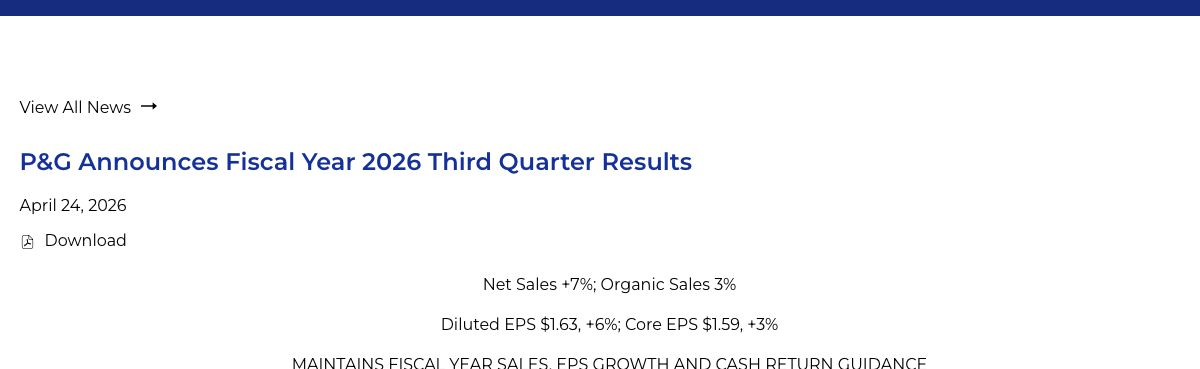
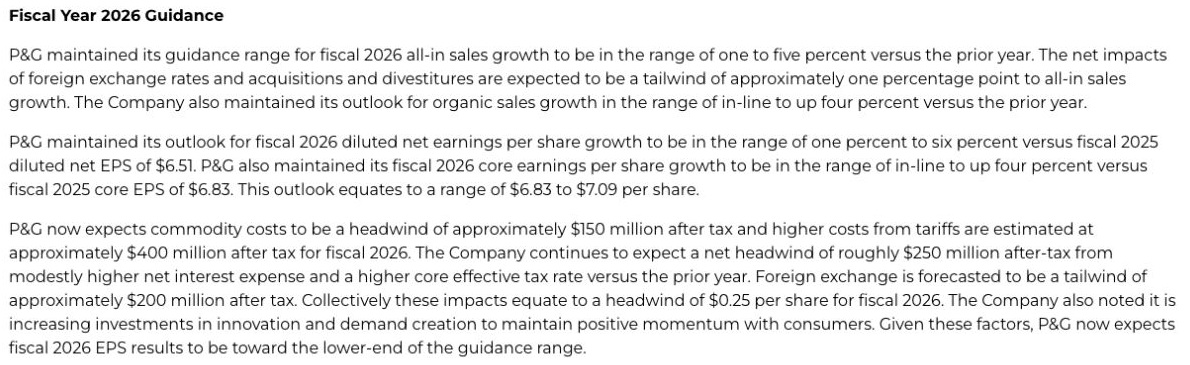
Correct guidance screenshot and explain annual-to-quarter forecast scope

diff --git a/analysis/01_management_guidance.md b/analysis/01_management_guidance.md
@@ -4,7 +4,9 @@
 
 ## 🎯 Goal
 
-Create a clear company benchmark for our April–June forecast.
+Forecast **April–June 2026 as one quarter**, then combine it with the first nine months to show the full-year result.
+
+We use quarterly public financial data. We do not split the forecast into months without evidence for that monthly pattern.
 
 **Data:** [P&G's 24 April earnings release](https://www.pginvestor.com/news/news-details/2026/PG-Announces-Fiscal-Year-2026-Third-Quarter-Results/default.aspx) → [our Excel guidance table](../outputs/april_guidance_sample/PG_1_Management_Guidance.xlsx).
 
@@ -28,12 +30,32 @@ Create a clear company benchmark for our April–June forecast.
 
 All-in sales includes currency and portfolio effects; organic sales removes specified currency and acquisition/divestiture effects. Core EPS is an adjusted measure, so it must be compared with core EPS rather than GAAP EPS.
 
+## 📅 From annual guidance to a quarterly sales target
+
+![How annual guidance becomes an April–June sales target](../architecture/annual_to_quarter.svg)
+
+1. Multiply **FY2025 sales** by **1 + the FY2026 growth rate** to get the implied full-year sales target.
+2. Subtract **actual July 2025–March 2026 sales** to get the sales needed in **April–June 2026**.
+3. Compare that amount with **April–June 2025 sales** to calculate the implied quarterly growth rate.
+
+Repeat for the company’s low, midpoint and high references. These are implied targets; our independent scenarios come next. **Do not divide the annual growth rate by four or twelve.**
+
+This subtraction works for sales amounts; organic growth and EPS require their own comparable-basis calculations.
+
 <details>
 <summary>🔎 Evidence: original announcement → our Excel table</summary>
 
 ### Original announcement
 
-Read the first paragraph for **1%–5% sales growth**, the second for **0%–4% core EPS growth**, and the final sentence for the **lower-end EPS expectation**.
+The announcement spells out percentages in words. Match these three phrases to the table above:
+
+| Find in the screenshot | Numeric meaning | Metric |
+|---|---|---|
+| **① First paragraph:** “one to five percent” | **1%–5%** | Full-year all-in sales growth |
+| **② First paragraph:** “in-line to up four percent” | **0%–4%** | Full-year organic sales growth |
+| **③ Second paragraph:** “in-line to up four percent” | **0%–4%** | Full-year core EPS growth |
+
+**“In-line” means unchanged from the prior year: 0% growth.** The screenshot below is the actual guidance section, not the quarterly headline results at the top of the announcement.
 
 ![P&G's original fiscal 2026 guidance section](../evidence/april_guidance_source.jpg)
 
@@ -53,6 +75,6 @@ The screenshot was captured in Microsoft Excel. Source limits are numeric percen
 
 ## Next question
 
-**What April–June sales would be needed to reach that annual guidance?** We will calculate that first, then challenge it with information available by 24 April.
+**What April–June sales would be needed to reach that annual guidance?** The calculation method is shown above; the numerical quarterly build is the next section, using only information available by 24 April.
 
 [← Project home](../README.md)

diff --git a/README.md b/README.md
@@ -3,7 +3,7 @@
 **Can P&G deliver its outlook, and what would change our view?**
 
 - 📅 **Start:** the January–March results released on 24 April 2026.
-- 🎯 **Forecast:** April–June 2026, with a clear link to the full-year outlook.
+- 🎯 **Forecast:** April–June 2026 as one quarter; add nine-month actuals to show the full year. No monthly split.
 - 🔎 **Method:** separate company guidance, our assumptions and actual results.
 
 ![From guidance to forecast review](architecture/april_workflow.svg)
